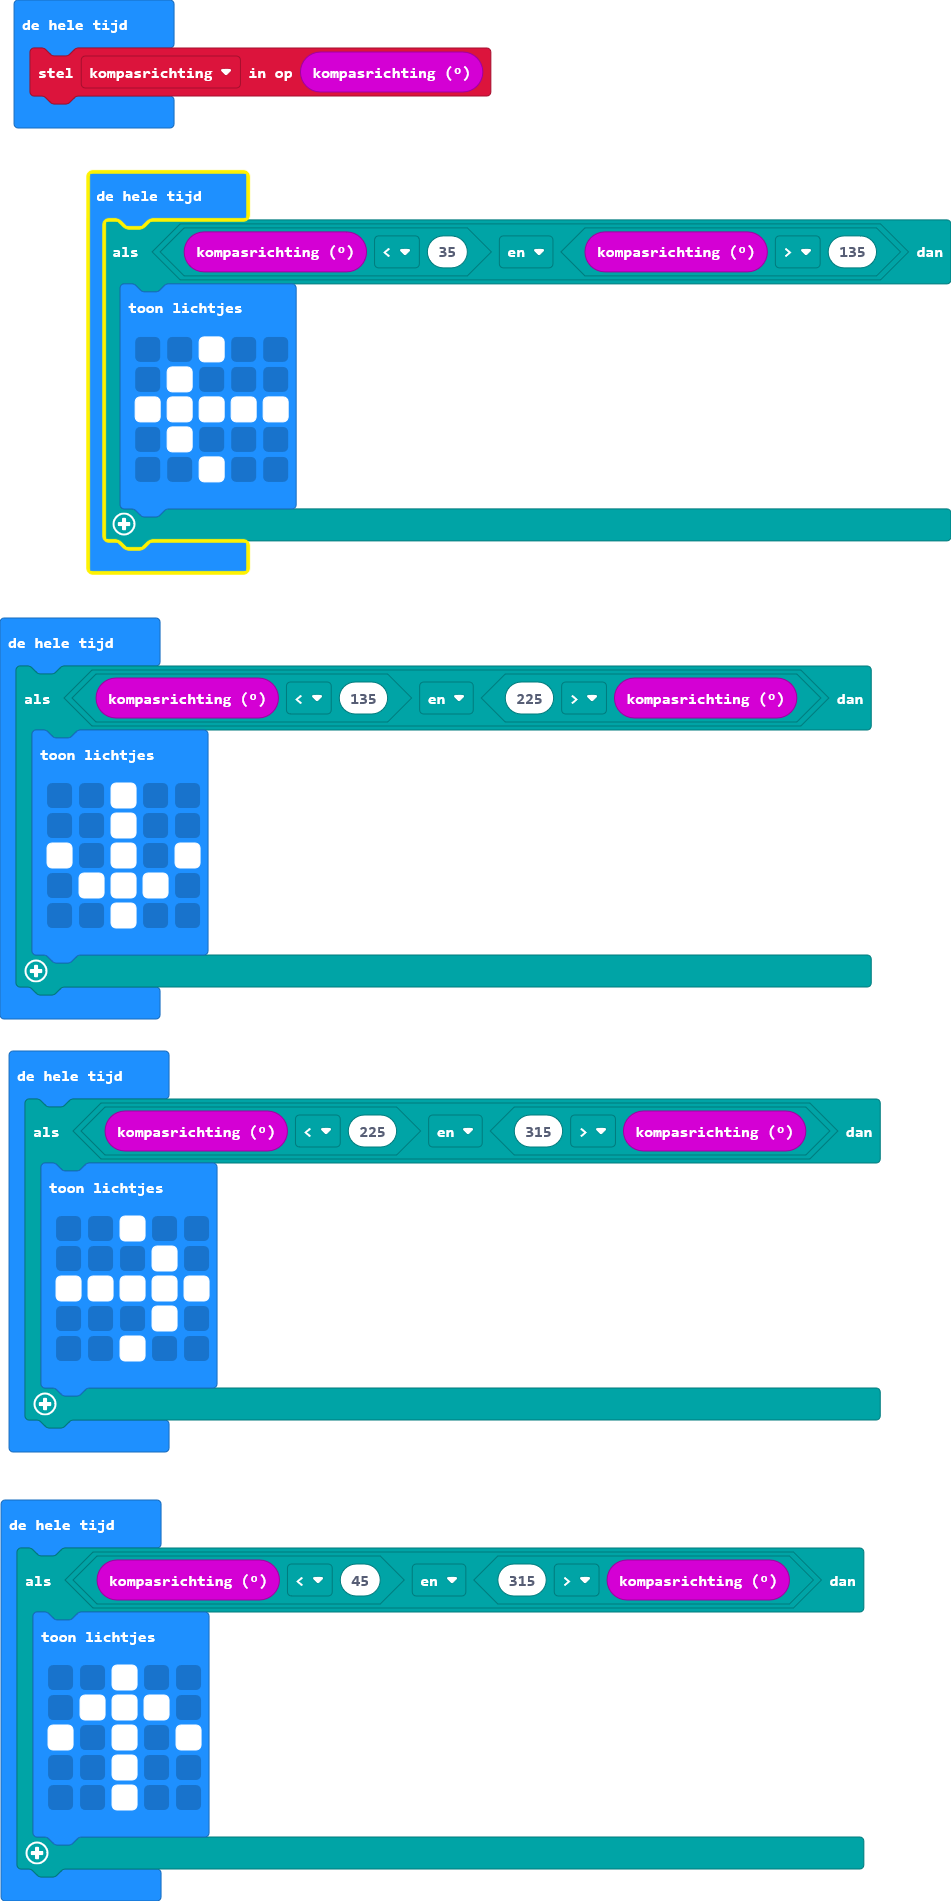
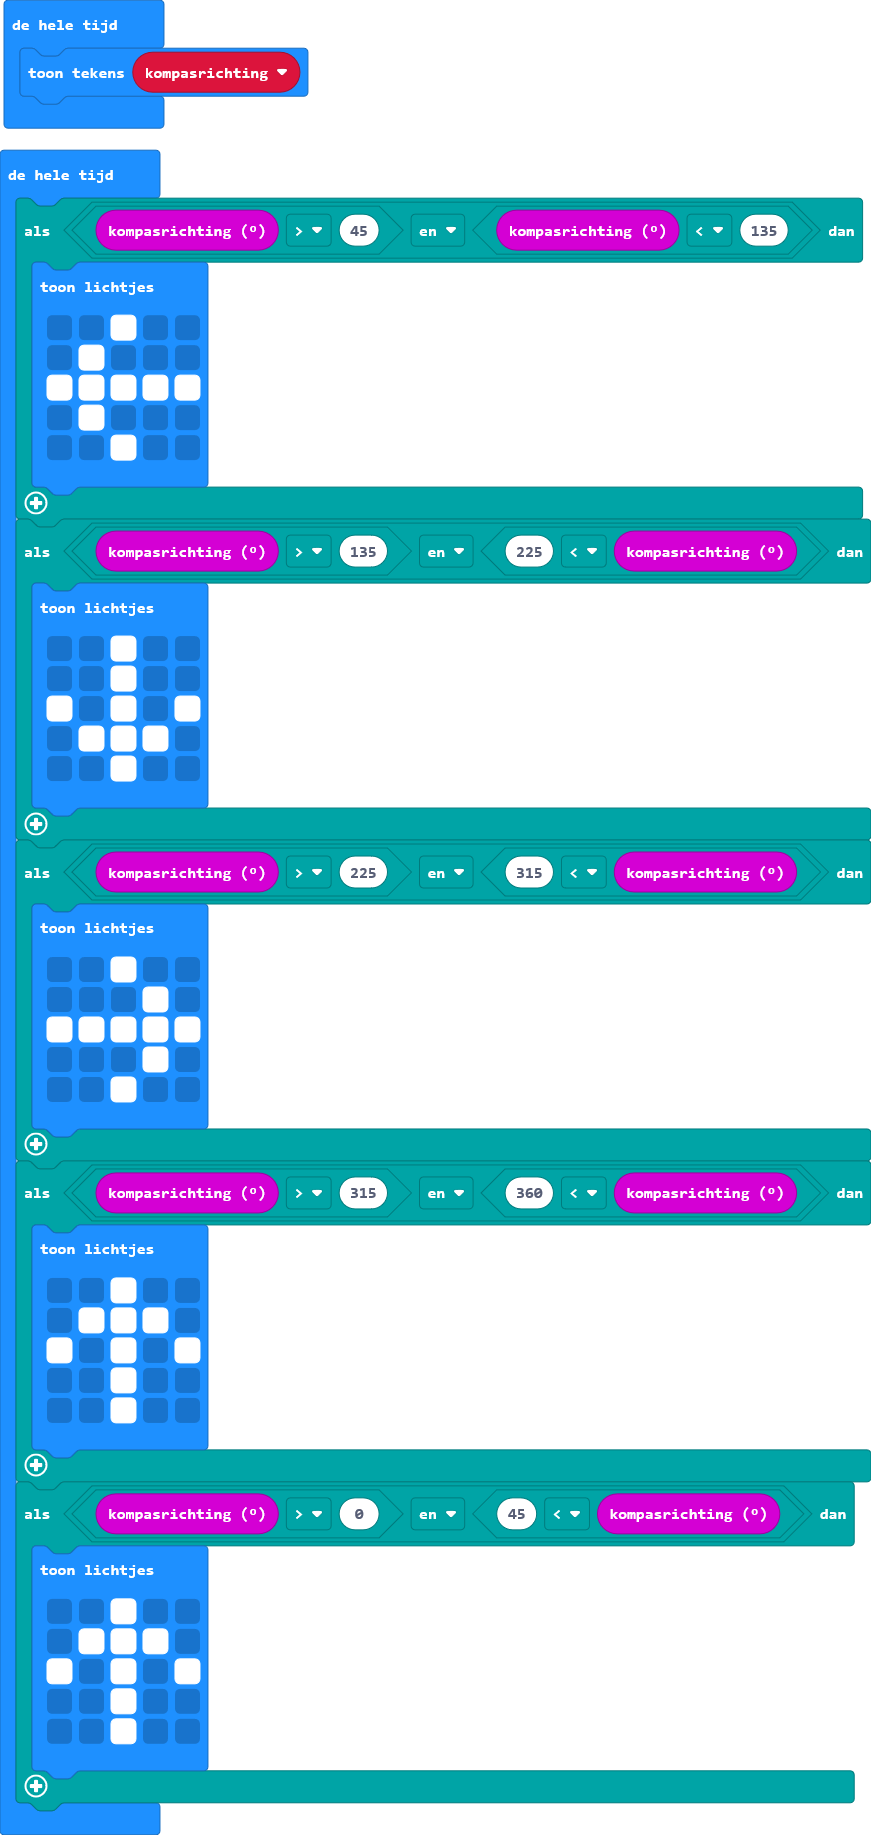
main.blocks, main.ts bijwerken

diff --git a/main.ts b/main.ts
@@ -1,9 +1,9 @@
-let kompasrichting = 0
 basic.forever(function () {
-    kompasrichting = input.compassHeading()
+    let kompasrichting = 0
+    basic.showString("" + (kompasrichting))
 })
 basic.forever(function () {
-    if (input.compassHeading() < 35 && input.compassHeading() > 135) {
+    if (input.compassHeading() > 45 && input.compassHeading() < 135) {
         basic.showLeds(`
             . . # . .
             . # . . .
@@ -12,9 +12,7 @@ basic.forever(function () {
             . . # . .
             `)
     }
-})
-basic.forever(function () {
-    if (input.compassHeading() < 135 && 225 > input.compassHeading()) {
+    if (input.compassHeading() > 135 && 225 < input.compassHeading()) {
         basic.showLeds(`
             . . # . .
             . . # . .
@@ -23,9 +21,7 @@ basic.forever(function () {
             . . # . .
             `)
     }
-})
-basic.forever(function () {
-    if (input.compassHeading() < 225 && 315 > input.compassHeading()) {
+    if (input.compassHeading() > 225 && 315 < input.compassHeading()) {
         basic.showLeds(`
             . . # . .
             . . . # .
@@ -34,9 +30,16 @@ basic.forever(function () {
             . . # . .
             `)
     }
-})
-basic.forever(function () {
-    if (input.compassHeading() < 45 && 315 > input.compassHeading()) {
+    if (input.compassHeading() > 315 && 360 < input.compassHeading()) {
+        basic.showLeds(`
+            . . # . .
+            . # # # .
+            # . # . #
+            . . # . .
+            . . # . .
+            `)
+    }
+    if (input.compassHeading() > 0 && 45 < input.compassHeading()) {
         basic.showLeds(`
             . . # . .
             . # # # .
